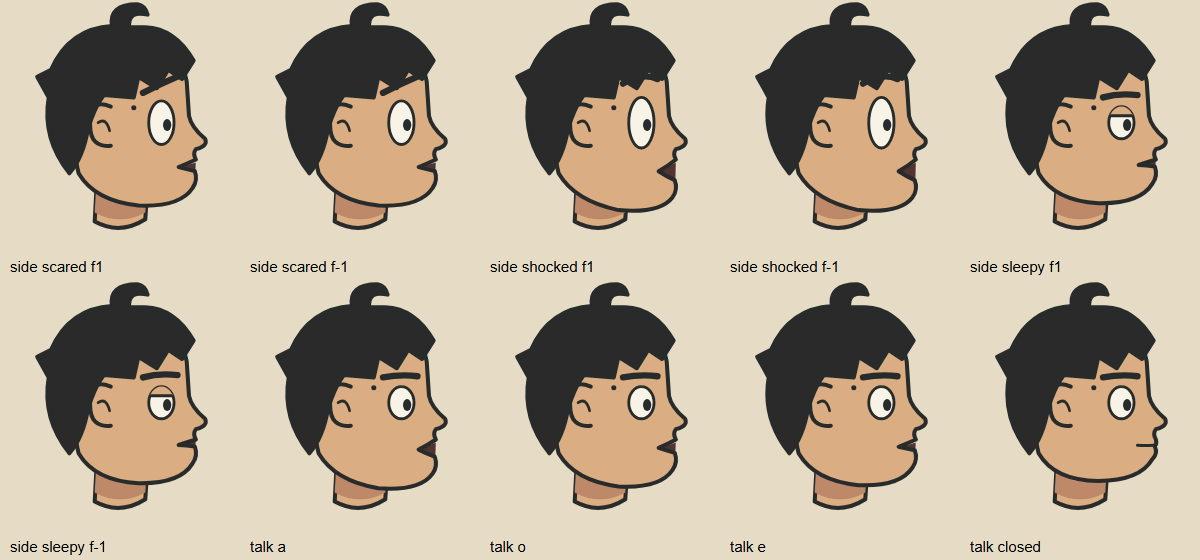
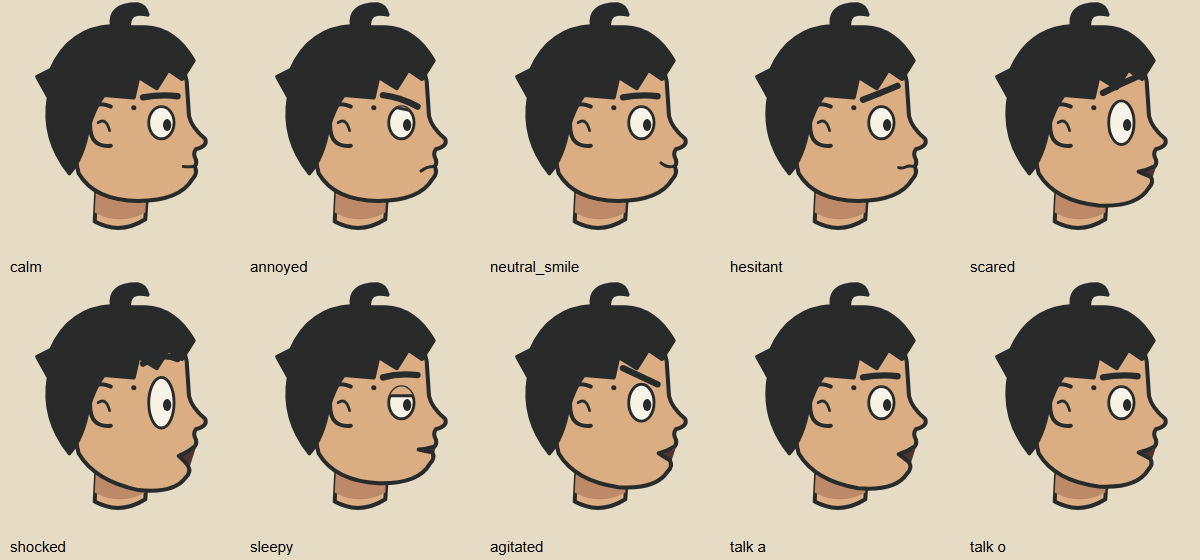
Ho so 2: mieng goc nghieng theo mau tham khao (khe tai giao hai moi, ham ha lui ve sau)

diff --git a/episodes/hem-co-chuyen/ho-so-02-nguoi-lam-thay/assets/nhan-vat.tsx b/episodes/hem-co-chuyen/ho-so-02-nguoi-lam-thay/assets/nhan-vat.tsx
@@ -84,21 +84,23 @@ const TUNG_HAIR: HairKit = {
 // Miệng nghiêng: hàm hạ xuống `drop` px, viền mặt mở khe giữa hai môi; lòng miệng tối vẽ SAU da nên chỉ lộ đúng khe. Nét miệng khép nằm trong má (x ≤ 64), không vượt viền môi.
 const SIDE_FACE: Record<NamMood, { ry: number; lid?: string; brow: string; mouth?: string; drop?: number }> = {
   sleepy: { ry: 14, lid: 'M 18 66 H 56 V 92 H 18 Z', brow: 'M 20 76 Q 34 72 50 74', drop: 4 },
-  annoyed: { ry: 14, lid: 'M 18 66 H 56 V 90 L 18 82 Z', brow: 'M 20 74 Q 36 76 50 84', mouth: 'M 64 135 Q 56 134 49 139' },
-  hesitant: { ry: 14, lid: 'M 18 66 H 56 V 83 H 18 Z', brow: 'M 20 78 Q 36 72 50 66', mouth: 'M 64 135 Q 60 133 56 135.5 Q 52 138 48 136' },
+  annoyed: { ry: 14, lid: 'M 18 66 H 56 V 90 L 18 82 Z', brow: 'M 20 74 Q 36 76 50 84', mouth: 'M 64 136 Q 58 136 53 140' },
+  hesitant: { ry: 14, lid: 'M 18 66 H 56 V 83 H 18 Z', brow: 'M 20 78 Q 36 72 50 66', mouth: 'M 64 136 Q 60 135 57 136.5 Q 54 138 51 137' },
   scared: { ry: 19, brow: 'M 20 72 Q 36 64 50 58', drop: 8 },
   agitated: { ry: 16, brow: 'M 20 68 L 50 82', drop: 11 },
   shocked: { ry: 22, brow: 'M 20 64 Q 36 54 50 60', drop: 16 },
-  suspicious: { ry: 14, lid: 'M 18 66 H 56 V 88 L 18 78 Z', brow: 'M 20 72 L 50 86', mouth: 'M 64 135 Q 56 134.5 49 137' },
-  calm: { ry: 14, lid: 'M 18 66 H 56 V 84 H 18 Z', brow: 'M 20 76 Q 36 73 50 75', mouth: 'M 64 135 Q 57 135.5 50 135' },
-  neutral_smile: { ry: 14, lid: 'M 18 66 H 56 V 84 H 18 Z', brow: 'M 20 76 Q 36 73 50 75', mouth: 'M 64 135 Q 56 137 49 131' },
-  eerie_smirk: { ry: 14, lid: 'M 18 66 H 56 V 84 H 18 Z', brow: 'M 20 74 Q 36 69 50 72', mouth: 'M 64 135 Q 56 136 48 129' },
+  suspicious: { ry: 14, lid: 'M 18 66 H 56 V 88 L 18 78 Z', brow: 'M 20 72 L 50 86', mouth: 'M 64 136 Q 58 136 53 138' },
+  calm: { ry: 14, lid: 'M 18 66 H 56 V 84 H 18 Z', brow: 'M 20 76 Q 36 73 50 75', mouth: 'M 64 136 Q 59 136.5 55 136' },
+  neutral_smile: { ry: 14, lid: 'M 18 66 H 56 V 84 H 18 Z', brow: 'M 20 76 Q 36 73 50 75', mouth: 'M 64 136 Q 58 137.5 53 133' },
+  eerie_smirk: { ry: 14, lid: 'M 18 66 H 56 V 84 H 18 Z', brow: 'M 20 74 Q 36 69 50 72', mouth: 'M 64 136 Q 57 137 52 131' },
 };
-// Viền mặt nghiêng; d > 0 hạ môi dưới + cằm và mở khe miệng (góc miệng ở x≈51).
-const profilePath = (d: number) =>
-  d <= 0
-    ? 'M -50 78 Q -48 24 4 22 Q 50 22 58 62 L 60 92 Q 62 102 74 112 Q 77 118 66 121 Q 63 125 66 130 Q 67 134 65 136 Q 68 142 63 147 Q 52 166 16 166 Q -22 166 -36 142 Z'
-    : `M -50 78 Q -48 24 4 22 Q 50 22 58 62 L 60 92 Q 62 102 74 112 Q 77 118 66 121 Q 63 125 66 130 Q 59 ${131 + d * 0.3} 51 ${133 + d * 0.45} Q 58 ${132 + d * 0.8} 65 ${132 + d} Q 68 ${140 + d} 63 ${147 + d} Q 52 ${166 + d * 0.7} 16 ${166 + d * 0.5} Q -22 166 -36 142 Z`;
+// Viền mặt nghiêng theo mẫu tham khảo: khe miệng mở tại điểm giao hai môi (65,136); hàm hạ `d` thì môi dưới và cằm vừa xuống vừa lùi về sau.
+const profilePath = (d: number) => {
+  const top = 'M -50 78 Q -48 24 4 22 Q 50 22 58 62 L 60 92 Q 62 102 74 112 Q 77 118 66 121 Q 63 125 66 130 Q 67 134 65 136';
+  if (d <= 0) return top + ' Q 68 142 63 147 Q 52 166 16 166 Q -22 166 -36 142 Z';
+  const back = 0.3 * d;
+  return top + ` Q 58 ${137 + d * 0.3} 51 ${137 + d * 0.45} Q 57 ${137 + d * 0.8} ${64 - back} ${137 + d} Q ${67 - back} ${142 + d} ${62 - back} ${147 + d} Q ${52 - back} ${166 + d * 0.7} 16 ${166 + d * 0.5} Q -22 166 -36 142 Z`;
+};
 const talkDrop = (t: Talk) => (t.shape === 'closed' || t.shape === 'pressed' || t.shape === 'smile' ? 0 : 3 + 11 * clamp(t.open ?? 0.4));
 
 // Ghép nét mặt thư viện: bỏ lớp mũi (giữ mũi nhân vật), tuỳ chọn bỏ mắt (đang chớp) và miệng (đang nói).
@@ -114,15 +116,15 @@ const ProfileHead: React.FC<{ hair: HairKit; mood: NamMood; clip: string; mole: 
   const f = SIDE_FACE[mood];
   const drop = talk ? talkDrop(talk) : f.drop ?? 0;
   const face = profilePath(drop);
-  const line = talk ? (drop ? undefined : 'M 64 135 Q 57 135.5 50 135') : drop ? undefined : f.mouth;
+  const line = talk ? (drop ? undefined : 'M 64 136 Q 59 136.5 55 136') : drop ? undefined : f.mouth;
   return (
     <g {...headFrame(x, y, scale)}>
       <path d="M -20 146 L -22 184 Q 0 196 22 182 L 24 152" fill={PALETTE.skin} />
       <path d="M -21 158 Q 0 174 23 160 L 22 176 Q 0 188 -22 176 Z" fill={PALETTE.skinShadow} stroke="none" />
       {drop > 0 && (
         <g stroke="none">
-          <path d={`M 66 129 L 49 ${133 + drop * 0.45} L 65.5 ${133 + drop} Z`} fill={PALETTE.mouthDark} />
-          {drop > 6 && <path d={`M 66 129.5 L 58 ${131 + drop * 0.25} L 58 ${133.5 + drop * 0.2} L 66 132.5 Z`} fill={PALETTE.teeth} />}
+          <path d={`M 67 134 L 49 ${137 + drop * 0.45} L ${65 - 0.3 * drop} ${139 + drop} Z`} fill={PALETTE.mouthDark} />
+          {drop > 6 && <path d={`M 65.5 135.5 L 57 ${136.5 + drop * 0.2} L 57 ${138.5 + drop * 0.2} L 65 138 Z`} fill={PALETTE.teeth} />}
         </g>
       )}
       <path d={face} fill={PALETTE.skin} />
